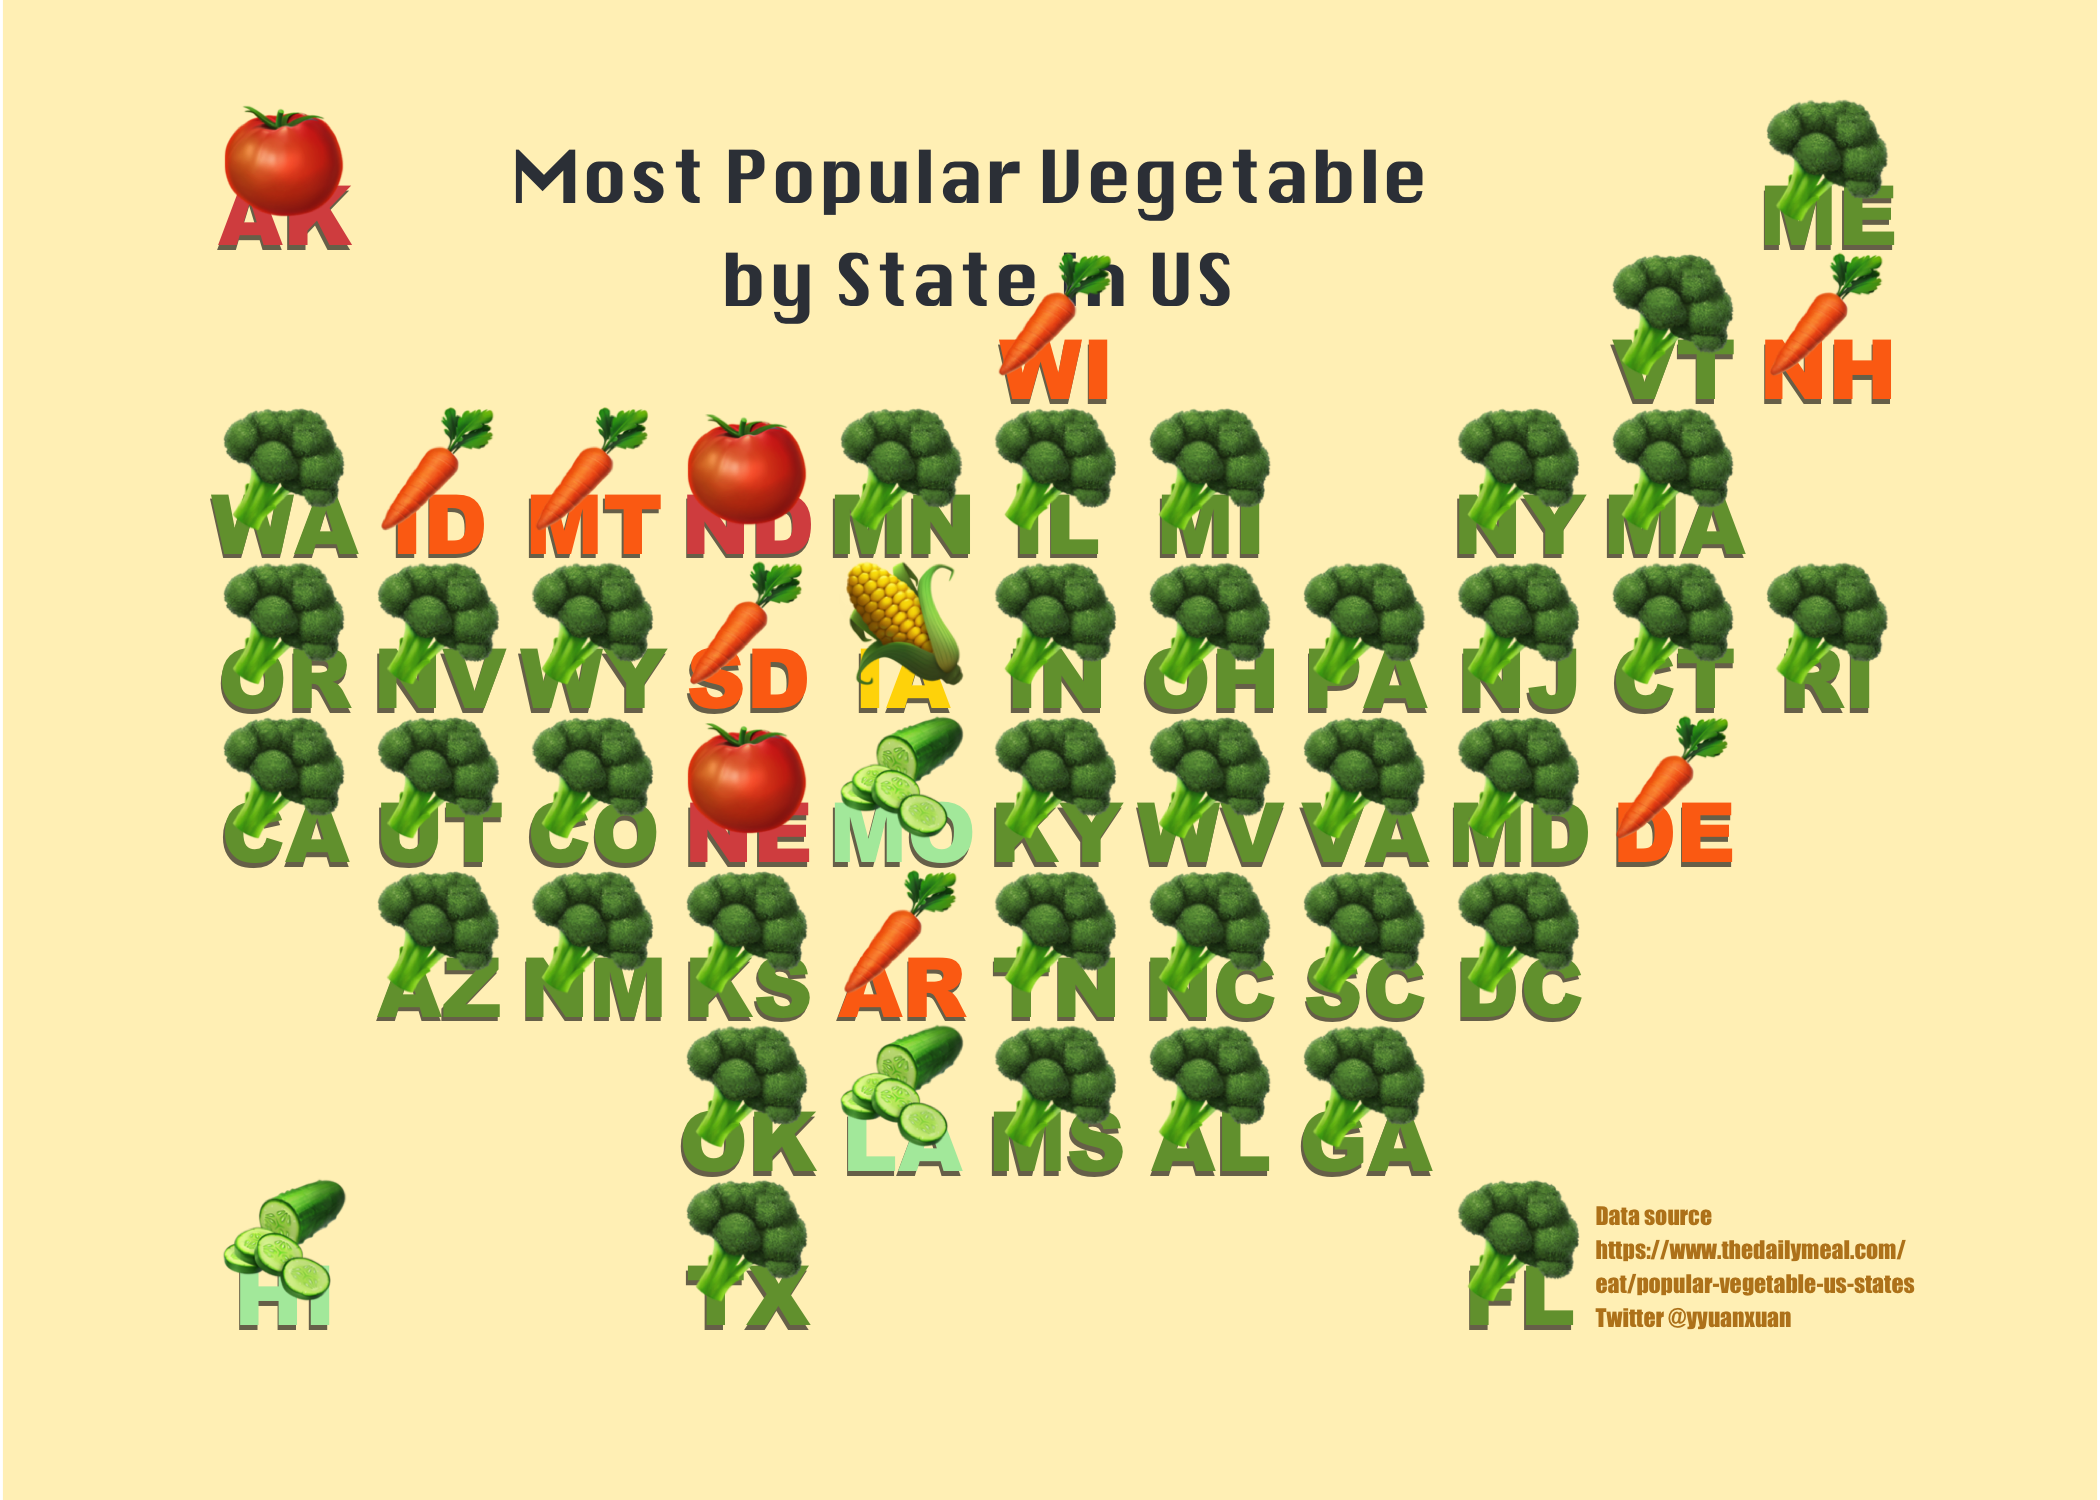
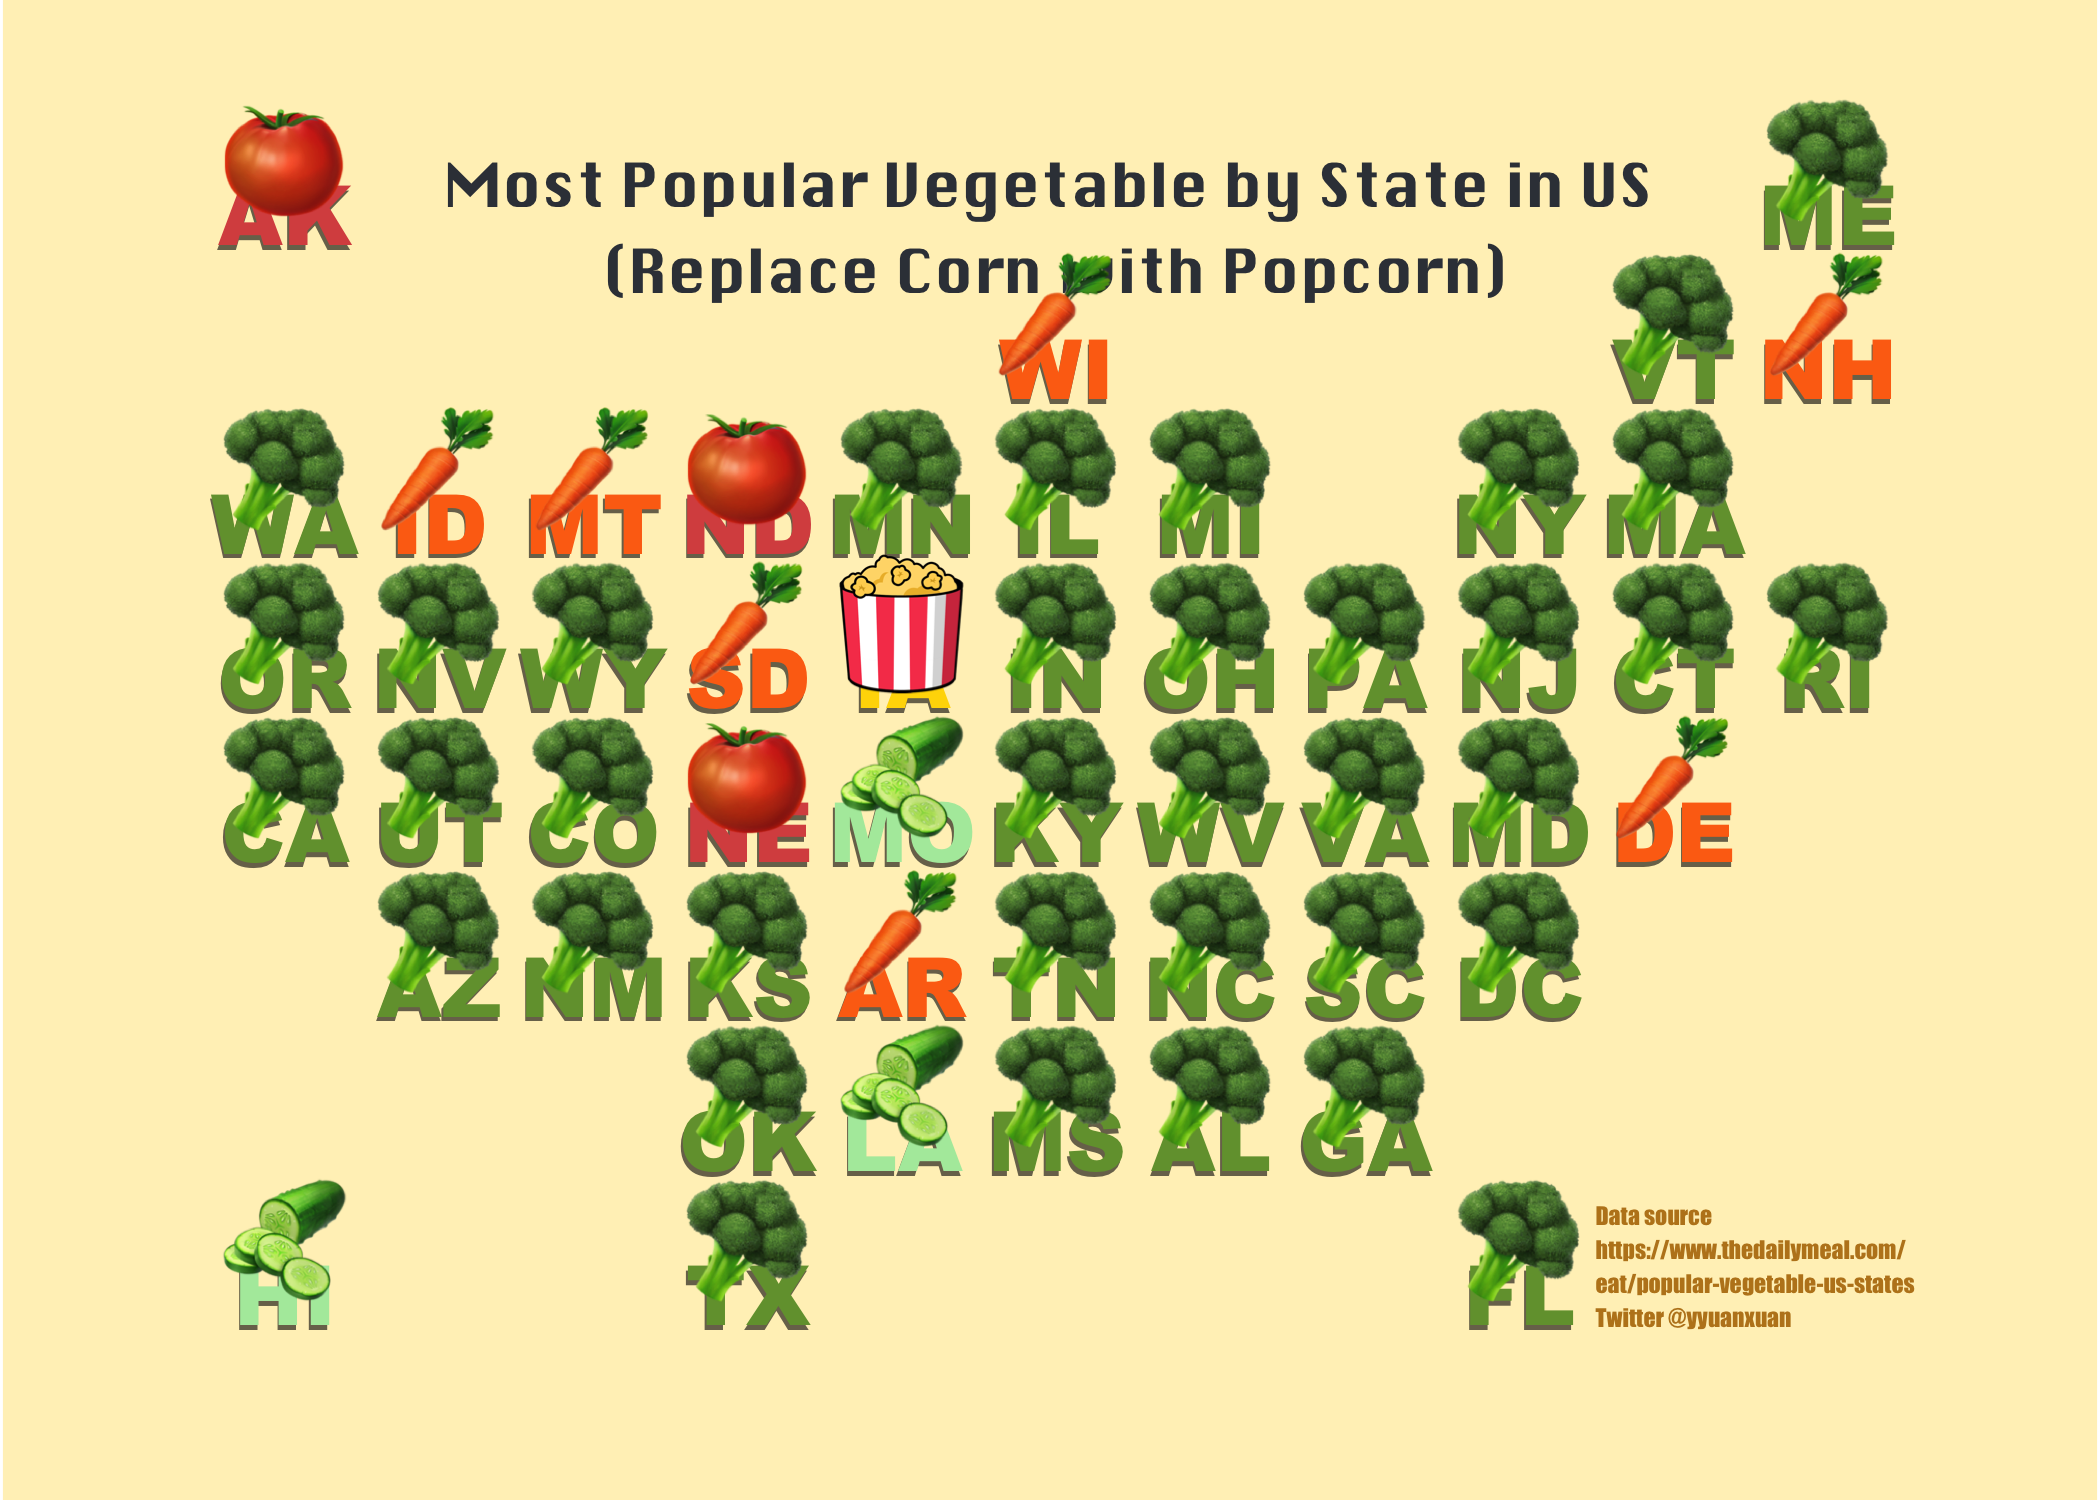
Improve readability of readme

Changed region(s): [[0.2167, 0.092, 0.8048, 0.2147], [0.4024, 0.368, 0.4643, 0.46]]

diff --git a/readme.md b/readme.md
@@ -2,14 +2,14 @@ Use emoji in ggplot2 scatter plot
 ================
 yuanxuan yang
 
-### 1. Get the data
-
 This is a tutorial of using emoji (or other images) in ggplot2 scatter
 plot. Our task is to create a map (scatter plot) to show the “most
 popular vegetable by state in US”, where each state is represented by
 vegetable emoji. It would be good to generate some visual outputs
 similar to the grid maps as shown in [this
 article](https://flowingdata.com/2015/05/12/the-great-grid-map-debate-of-2015/).
+
+### 1. Get the data
 
 The **most popular vegetable data** is obtained from
 <https://www.thedailymeal.com/eat/popular-vegetable-us-states>, I have
@@ -70,7 +70,7 @@ state_location %>%
   coord_fixed()
 ```
 
-![](readme_files/figure-gfm/unnamed-chunk-5-1.png)<!-- -->
+![](readme_files/figure-gfm/unnamed-chunk-4-1.png)<!-- -->
 
 We then join the **state\_veg** and **state\_location**, and make a
 basic scatter plot using ggpplot2. The dot’s color represent different
@@ -92,7 +92,7 @@ state_veg  %>%
   coord_fixed()
 ```
 
-![](readme_files/figure-gfm/unnamed-chunk-6-1.png)<!-- -->
+![](readme_files/figure-gfm/unnamed-chunk-5-1.png)<!-- -->
 
 ### 2. Emoji Time
 
@@ -215,7 +215,7 @@ ggplot()+
   )
 ```
 
-![](readme_files/figure-gfm/unnamed-chunk-11-1.png)<!-- -->
+![](readme_files/figure-gfm/unnamed-chunk-10-1.png)<!-- -->
 
 **Hurray, it works!** So again we can make some further tweaks, add a
 vintage-paper look background color, change the font style, add title
@@ -254,7 +254,7 @@ ggplot()+
   )
 ```
 
-![](readme_files/figure-gfm/unnamed-chunk-12-1.png)<!-- -->
+![](readme_files/figure-gfm/unnamed-chunk-11-1.png)<!-- -->
 
 ### 3. Final note
 
@@ -273,4 +273,4 @@ and [**emoGG**](https://github.com/dill/emoGG) can only provide us the
 choice of emoji. Here I replaced the corn with an copyright-free image
 of popcorn. :)
 
-![](readme_files/figure-gfm/unnamed-chunk-13-1.png)<!-- -->
+![](readme_files/figure-gfm/unnamed-chunk-12-1.png)<!-- -->
